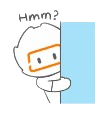
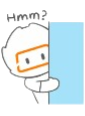
bigger charc

Changed region(s): [[0.0, 0.0783, 0.7059, 0.913], [0.8471, 0.1826, 0.9882, 0.913], [0.4235, 0.8609, 0.4706, 0.913]]

diff --git a/404.html b/404.html
@@ -37,7 +37,7 @@
 
         .character-container {
             position: absolute;
-            left: -200px;
+            left: -220px;
             top: 50%;
             transform: translateY(-50%);
         }
@@ -50,8 +50,8 @@
         }
 
         .hmm-character {
-            width: 500px;
-            height: 500px;
+            width: 240px;
+            height: auto;
         }
 
         .error-code {
@@ -96,7 +96,18 @@
 
         @media (max-width: 1200px) {
             .character-container {
-                left: -150px;
+                left: -170px;
+            }
+        }
+
+        @media (max-width: 900px) {
+            .character-container {
+                left: -120px;
+            }
+            
+            .hmm-character {
+                width: 120px;
+                height: auto;
             }
         }
 
@@ -107,13 +118,13 @@
                 margin-bottom: 20px;
             }
 
-            .coe-logo img {
-                height: 40px;
+            .hmm-character {
+                width: 120px;
+                height: auto;
             }
 
-            .hmm-character {
-                width: 100px;
-                height: 100px;
+            .coe-logo img {
+                height: 40px;
             }
 
             .error-code {
